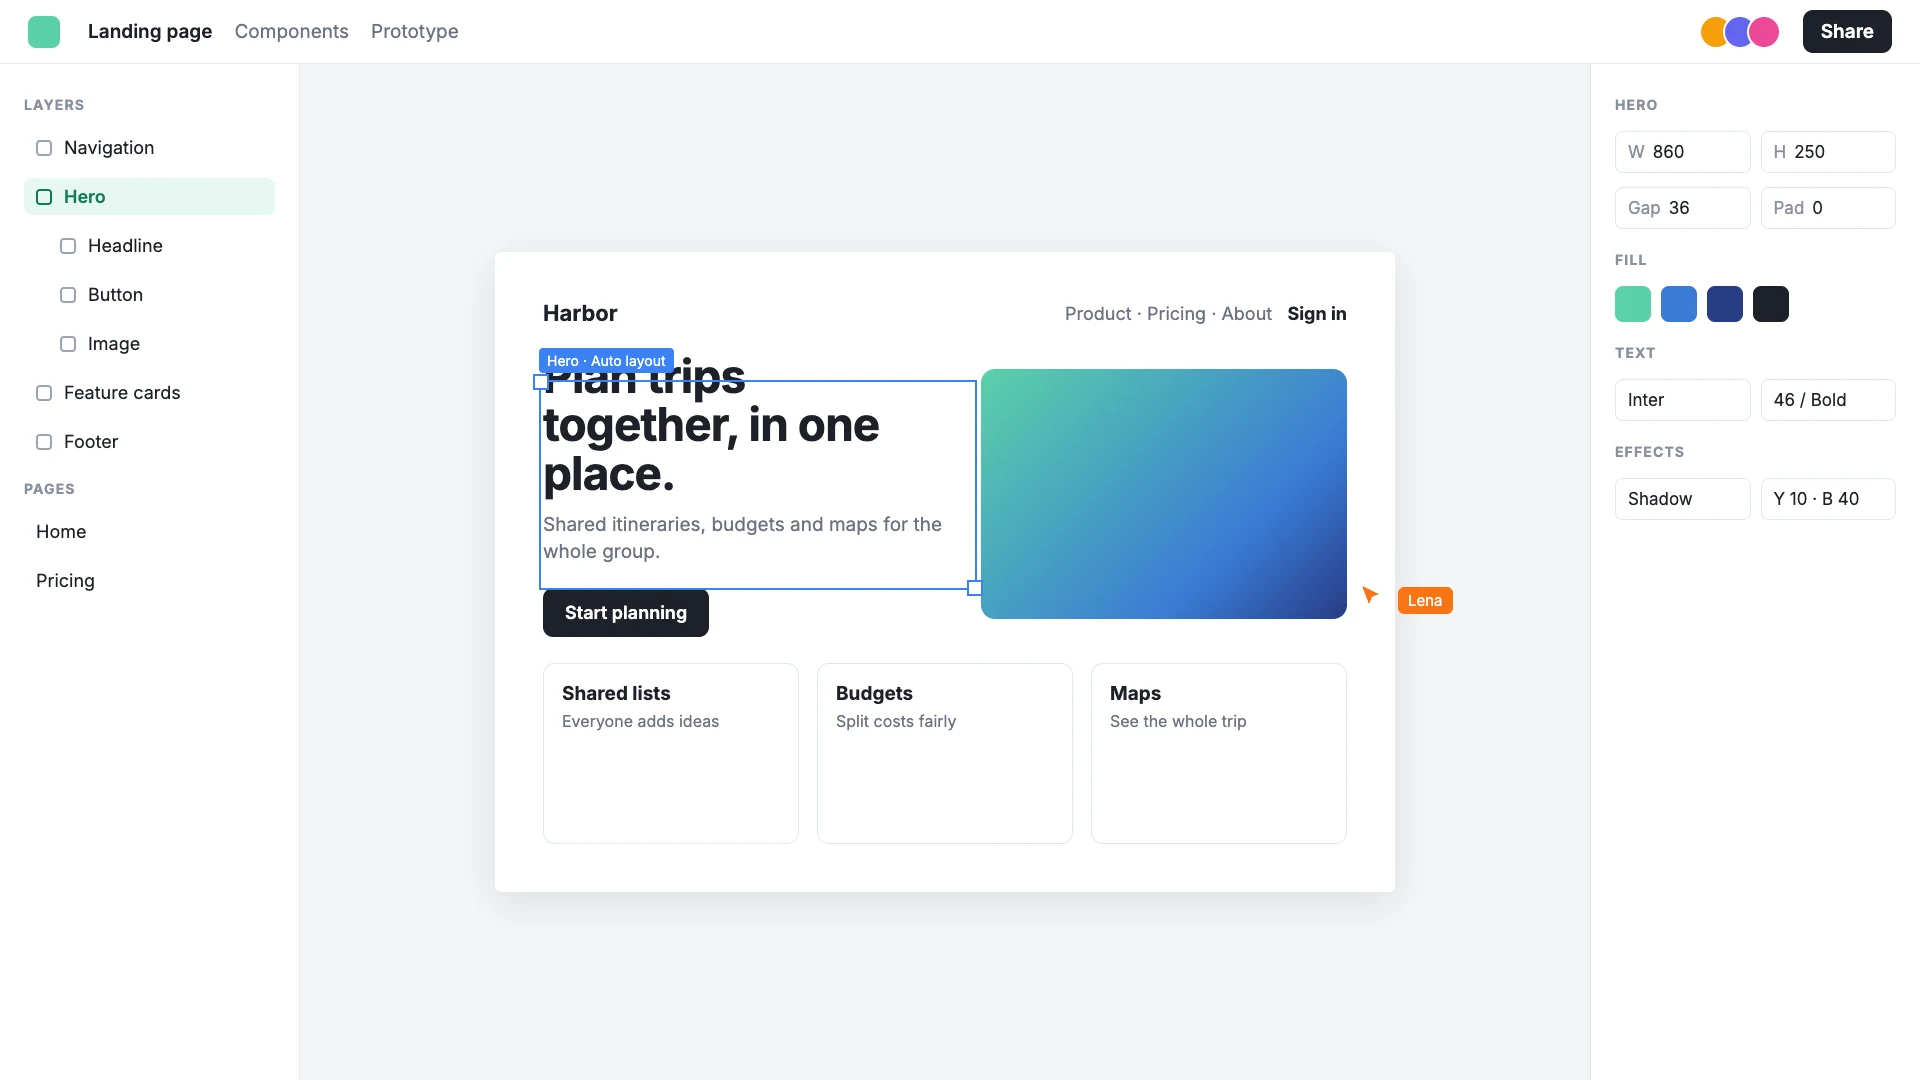
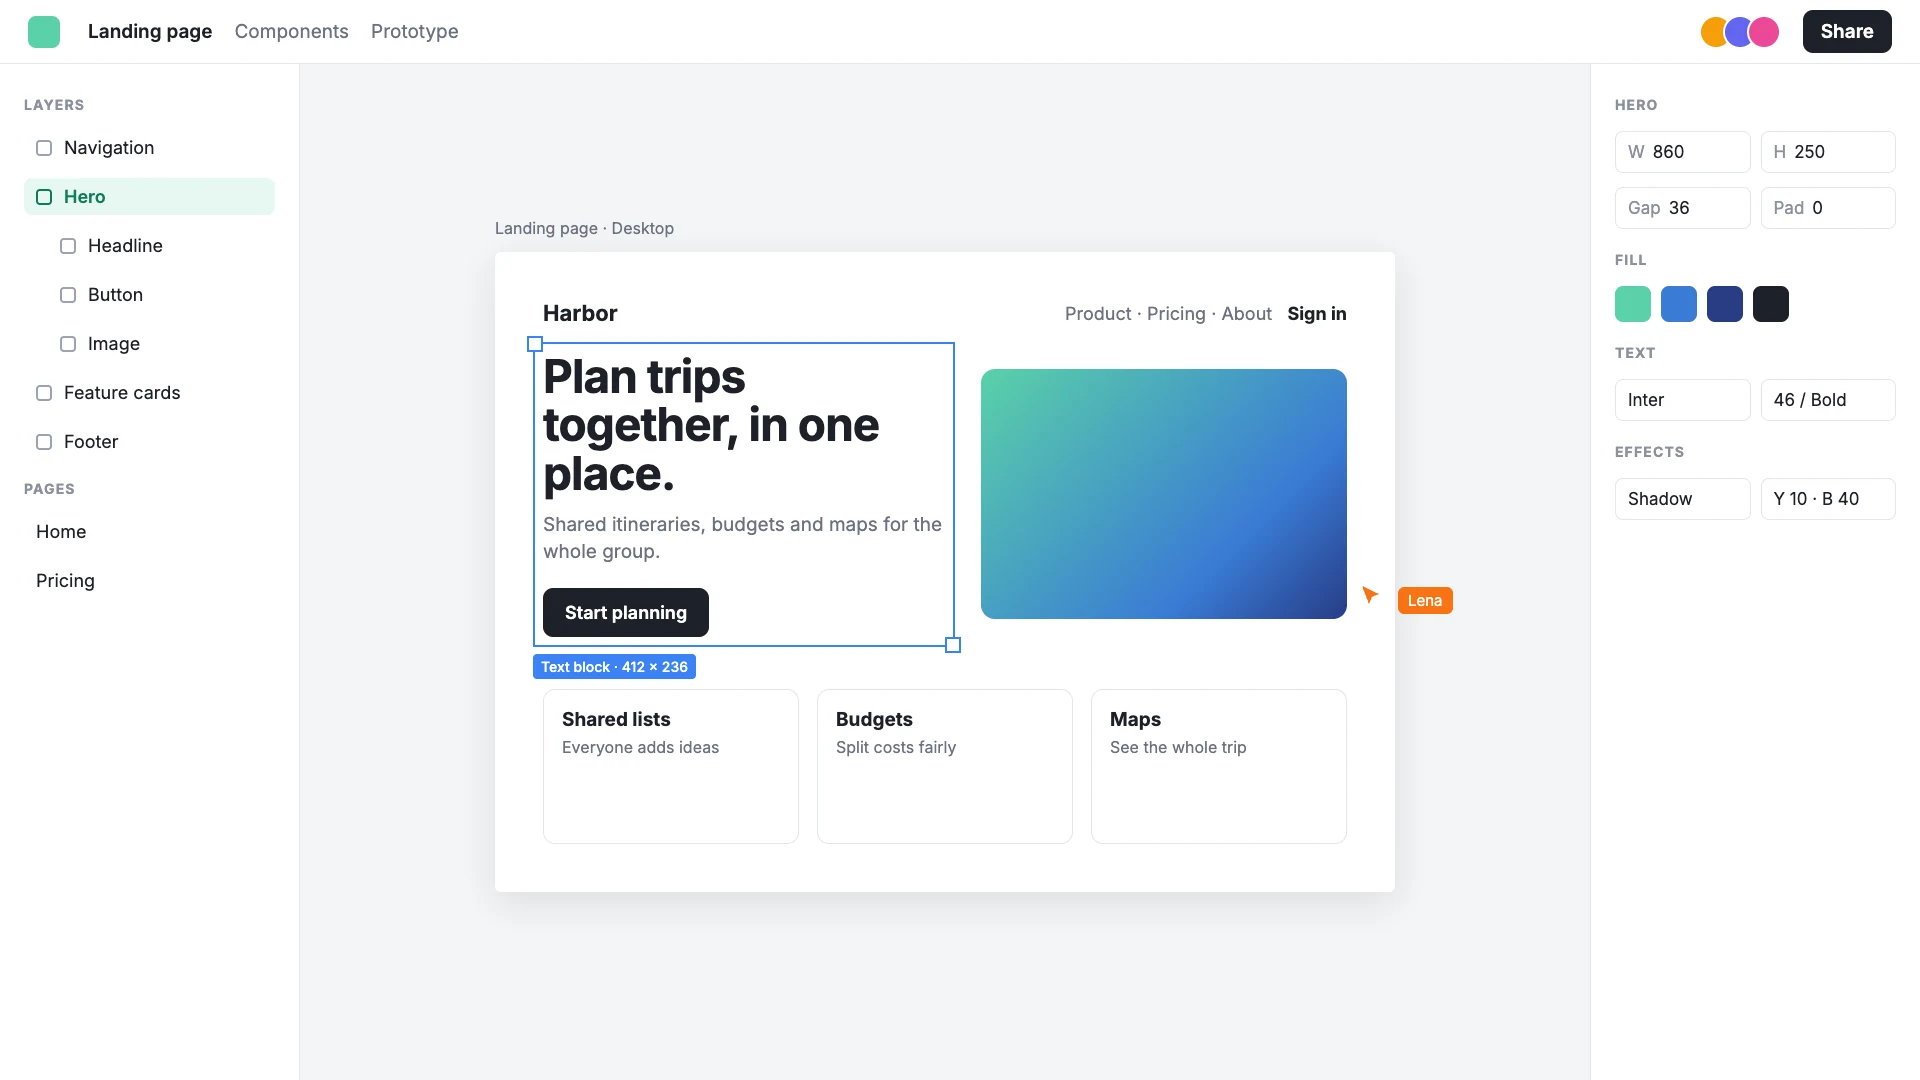
fix(site): design-app screen's selection label no longer covers its headline (SITE-14)
In Framewell's demo screen the 'Hero · Auto layout' tag sat on top of the
'Plan trips' headline. The selection now outlines the whole text block with its
size label underneath (with room above the cards), and the artboard name sits
above the artboard, as in a real design app. Re-rendered with bun run shots.

diff --git a/apps/site/scripts/screens/screen-design.html b/apps/site/scripts/screens/screen-design.html
@@ -16,15 +16,16 @@ body { width: 1920px; height: 1080px; font-family: Inter, sans-serif; background
 .canvas { position: relative; display: grid; place-items: center; }
 .board { width: 900px; height: 640px; background: #fff; border-radius: 6px; box-shadow: 0 10px 40px #0000001a; padding: 48px; display: grid; grid-template-rows: auto auto 1fr; gap: 26px; position: relative; }
 .board .nav { display: flex; justify-content: space-between; align-items: center; font-size: 18px; color: #6b7280; } .board .nav b { color: #1d2129; font-size: 22px; }
-.hero { display: grid; grid-template-columns: 1.1fr 1fr; gap: 36px; align-items: center; }
+.hero { margin-bottom: 26px; display: grid; grid-template-columns: 1.1fr 1fr; gap: 36px; align-items: center; }
 .hero h1 { font-size: 46px; line-height: 1.05; letter-spacing: -.02em; } .hero p { color: #6b7280; font-size: 19px; margin-top: 14px; line-height: 1.45; }
 .btn { display: inline-block; margin-top: 22px; background: #1d2129; color: #fff; border-radius: 10px; padding: 14px 22px; font-weight: 600; font-size: 18px; }
 .img { height: 250px; border-radius: 14px; background: linear-gradient(135deg, #5ad1a8, #3a7bd5 70%, #283c86); }
 .cards { display: grid; grid-template-columns: repeat(3, 1fr); gap: 18px; } .cards div { border: 1px solid #e3e6ea; border-radius: 12px; padding: 18px; font-size: 16px; color: #6b7280; } .cards b { display: block; color: #1d2129; font-size: 19px; margin-bottom: 6px; }
-.sel { position: absolute; left: 44px; top: 128px; width: 438px; height: 210px; border: 2px solid #3b82f6; }
+.sel { position: relative; outline: 2px solid #3b82f6; outline-offset: 8px; }
 .sel::before, .sel::after { content: ""; position: absolute; width: 12px; height: 12px; background: #fff; border: 2px solid #3b82f6; }
-.sel::before { left: -8px; top: -8px; } .sel::after { right: -8px; bottom: -8px; }
-.tag { position: absolute; left: 44px; top: 96px; background: #3b82f6; color: #fff; font-size: 14px; padding: 4px 8px; border-radius: 4px; }
+.sel::before { left: -16px; top: -16px; } .sel::after { right: -16px; bottom: -16px; }
+.tag { position: absolute; left: 0; top: -34px; color: #6b7280; font-size: 16px; }
+.sel b { position: absolute; left: -10px; bottom: -42px; background: #3b82f6; color: #fff; font-size: 14px; font-weight: 500; padding: 4px 8px; border-radius: 4px; white-space: nowrap; }
 .cursor { position: absolute; left: 1060px; top: 520px; } .cursor span { background: #f97316; color: #fff; font-size: 15px; padding: 4px 10px; border-radius: 6px; margin-left: 16px; }
 .panel { background: #fff; border-left: 1px solid #e3e6ea; padding: 24px; font-size: 17px; display: grid; gap: 14px; align-content: start; }
 .row { display: grid; grid-template-columns: 1fr 1fr; gap: 10px; } .row div { border: 1px solid #e3e6ea; border-radius: 8px; padding: 10px 12px; } .row span { color: #8a919e; margin-right: 8px; }
@@ -36,9 +37,9 @@ body { width: 1920px; height: 1080px; font-family: Inter, sans-serif; background
   <div class="side"><h4>Layers</h4><div class="layer"><i></i>Navigation</div><div class="layer on"><i></i>Hero</div><div class="layer" style="padding-left:36px"><i></i>Headline</div><div class="layer" style="padding-left:36px"><i></i>Button</div><div class="layer" style="padding-left:36px"><i></i>Image</div><div class="layer"><i></i>Feature cards</div><div class="layer"><i></i>Footer</div><h4>Pages</h4><div class="layer">Home</div><div class="layer">Pricing</div></div>
   <div class="canvas"><div class="board">
     <div class="nav"><b>Harbor</b><span>Product · Pricing · About &nbsp; <b style="font-size:18px">Sign in</b></span></div>
-    <div class="hero"><div><h1>Plan trips together, in one place.</h1><p>Shared itineraries, budgets and maps for the whole group.</p><span class="btn">Start planning</span></div><div class="img"></div></div>
+    <div class="hero"><div class="sel"><b>Text block · 412 × 236</b><h1>Plan trips together, in one place.</h1><p>Shared itineraries, budgets and maps for the whole group.</p><span class="btn">Start planning</span></div><div class="img"></div></div>
     <div class="cards"><div><b>Shared lists</b>Everyone adds ideas</div><div><b>Budgets</b>Split costs fairly</div><div><b>Maps</b>See the whole trip</div></div>
-    <div class="tag">Hero · Auto layout</div><div class="sel"></div>
+    <div class="tag">Landing page · Desktop</div>
   </div>
   <div class="cursor"><svg width="22" height="22" viewBox="0 0 22 22"><path d="M2 2l7 18 3-7 7-3z" fill="#f97316"/></svg><span>Lena</span></div></div>
   <div class="panel"><h4>Hero</h4><div class="row"><div><span>W</span>860</div><div><span>H</span>250</div></div><div class="row"><div><span>Gap</span>36</div><div><span>Pad</span>0</div></div><h4>Fill</h4><div class="sw"><i style="background:#5ad1a8"></i><i style="background:#3a7bd5"></i><i style="background:#283c86"></i><i style="background:#1d2129"></i></div><h4>Text</h4><div class="row"><div>Inter</div><div>46 / Bold</div></div><h4>Effects</h4><div class="row"><div>Shadow</div><div>Y 10 · B 40</div></div></div>
